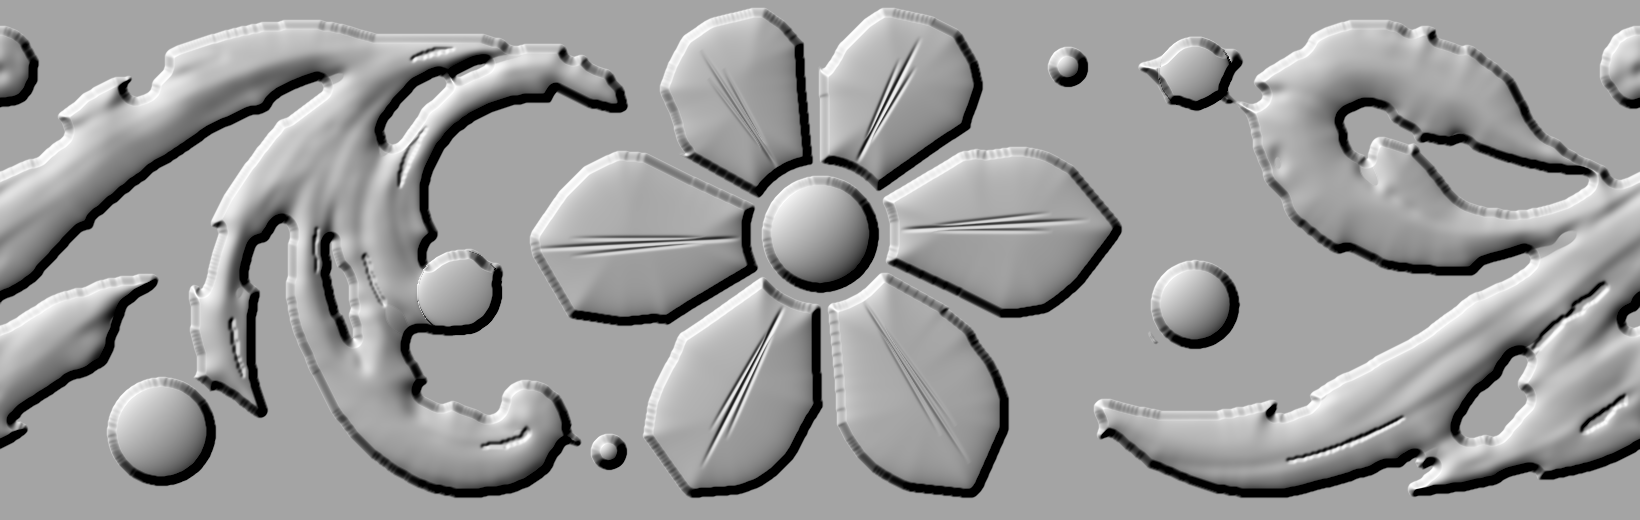
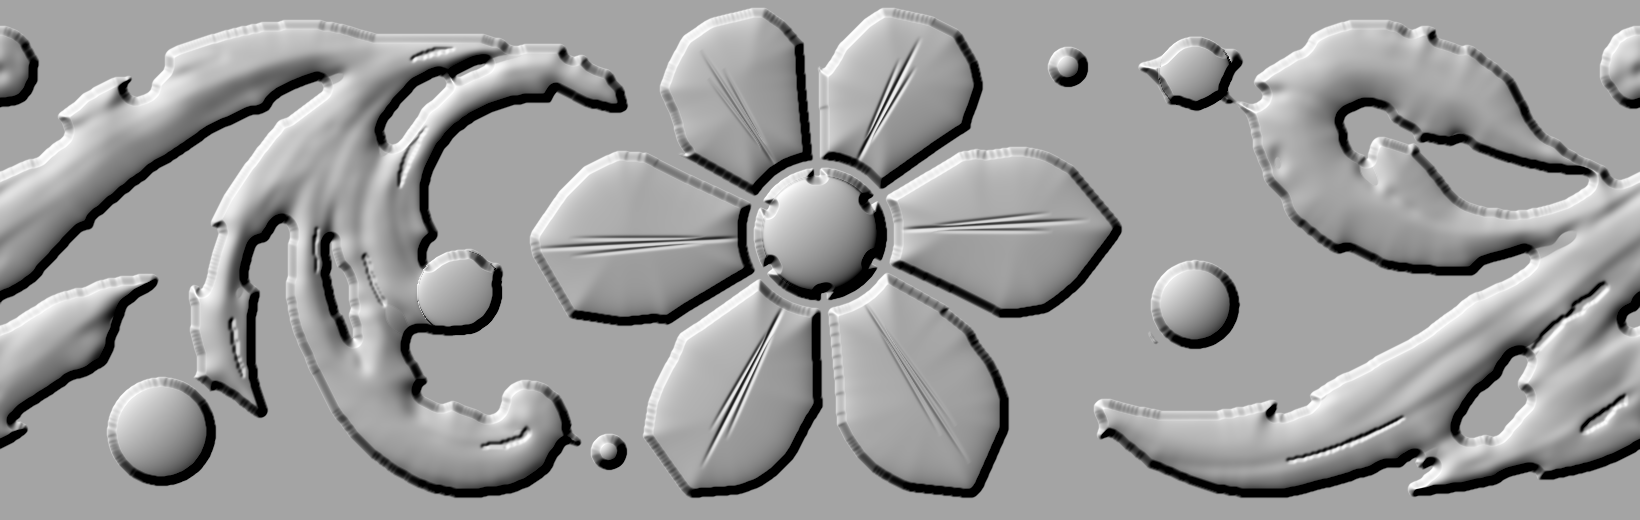
v2 step 9: flower bead collar (gold annulus r<=66 cut by 6 gap lines, flat COLH .5, dome rises from it), moat moved to r66-73 (measured ref radial profile), petal bases RB 74

Changed region(s): [[0.4354, 0.2769, 0.5598, 0.6154]]

diff --git a/tools/v2/make_map_v2.py b/tools/v2/make_map_v2.py
@@ -43,7 +43,7 @@ _zone = _ax & (_r > 62) & (_r < 330)
 _cl = ndi.binary_closing(B, structure=np.ones((3, 3)), iterations=int(E('FCI', 9)))
 B = B | (_cl & _zone)
 # s75 petal bases: per petal, fill the convex hull of its gold (r > RB) inside its own 60 deg sector (inset GAPH px from the gap lines) -> no slit remnants/slivers; clear the ring r < RB around the bead moat; round the base corners (SDF smoothing r < 130)
-RB, GAPH = E('RB', 70), E('GAPH', 1.5)
+RB, GAPH = E('RB', 74), E('GAPH', 1.5)
 GW0, GS, RF = E('GW0', 3.5), E('GS', .04), E('RF', 150)
 _dB = ndi.distance_transform_edt(~B); _sm = np.clip((_r - E('FR0', 110)) / (E('FR1', 210) - E('FR0', 110)), 0, 1); _e = E('FEXP', 14) * (1 - _sm * _sm * (3 - 2 * _sm))   # fill may grow a petal by <= _e px, fading out with r (no hard step)
 _gwr = GW0 + GS * (np.clip(_r, RB, RF) - RB)   # s77 gap half-width (px): narrow at the bead, widening outward (ref gaps are thin dark lines, petal sides straight along them)
@@ -66,12 +66,20 @@ BEADS = [(407, 116, 29, 1, FBEAD), (593, 151, 22, 1, BEAD), (80, 214, 27, 1, BEA
 dist_b = np.full(B.shape, 1e9, np.float32)
 for bx, by, br, moat, top in BEADS:
     d = np.hypot(Xg - bx * sc, Yg - by * sc); R = br * sc
+    if bx == 407 and by == 116:   # s78 flower bead: ref has a gold COLLAR out to r~66 (cut by the 6 petal gap lines), dark moat r 66..73, petals from ~74 (measured radial profile)
+        Rc = R + E('COL', 8); B = B & ~((d > Rc) & (d <= Rc + E('FMOAT', 7))); B = B | (d <= Rc)
+        B = B & ~((_r * np.sin(np.radians(np.clip(_gd, 0, 90))) < E('CGW', 3)) & (d > R) & (d <= Rc))
+        B = B | (d <= R)
+        continue
     if moat: B = B & ~((d > R) & (d <= R + E('MOAT', 8)))
     B = B | (d <= R)
 sdf = sg(sdf_of(B), 1.0)
 level = np.zeros(B.shape, np.float32); isbead = np.zeros(B.shape, bool)
 for bx, by, br, moat, top in BEADS:
     d = np.hypot(Xg - bx * sc, Yg - by * sc); R = br * sc; r_ = d <= R
+    if bx == 407 and by == 116:   # flower bead: dome rises from a flat collar (height COLH) out to Rc (already carved by the gap lines / moat in B)
+        _Rc = R + E('COL', 8); _col = (d > R) & (d <= _Rc) & B; level[_col] = E('COLH', .5); isbead |= _col
+        level[r_] = (E('COLH', .5) + (top - E('COLH', .5)) * np.sqrt(np.clip(1 - (d / R) ** 2, 0, 1)))[r_]; isbead |= r_; continue
     _b0 = .3 if moat else .55   # moat-less balls sit on the leaf: dome starts at plate height, no cliff (s76)
     level[r_] = (_b0 + (top - _b0) * np.sqrt(np.clip(1 - (d / R) ** 2, 0, 1)))[r_]; isbead |= r_
 big = B & ~isbead
